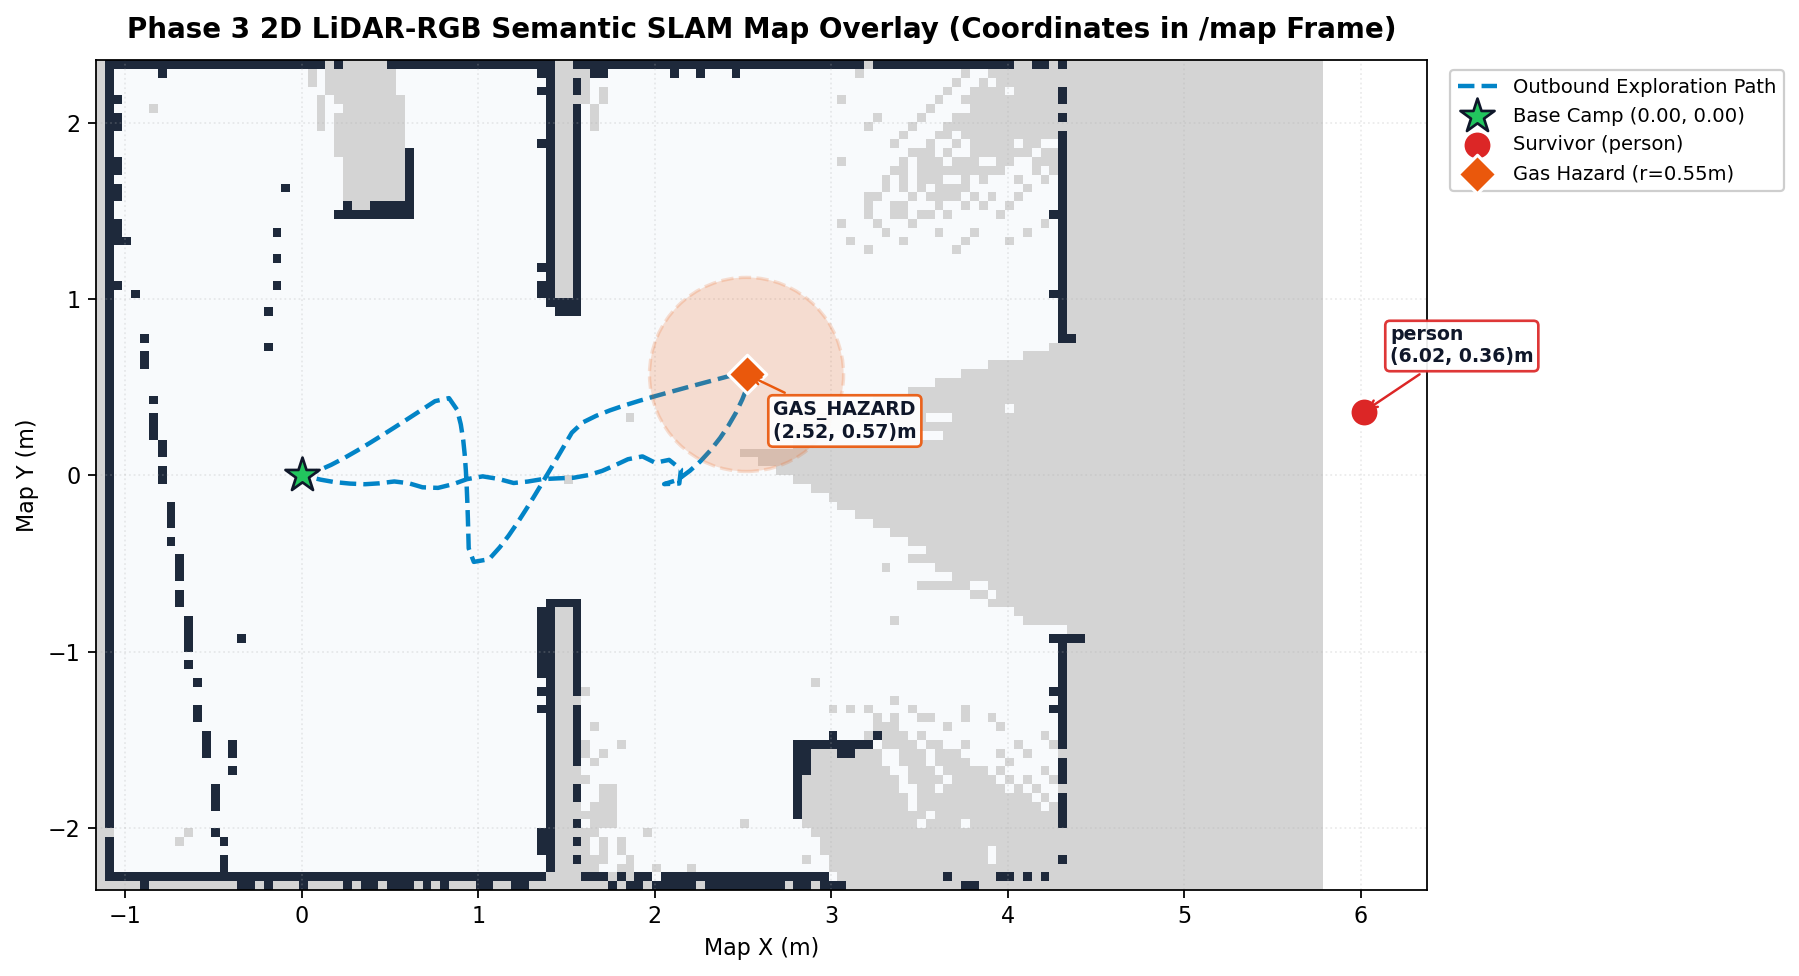
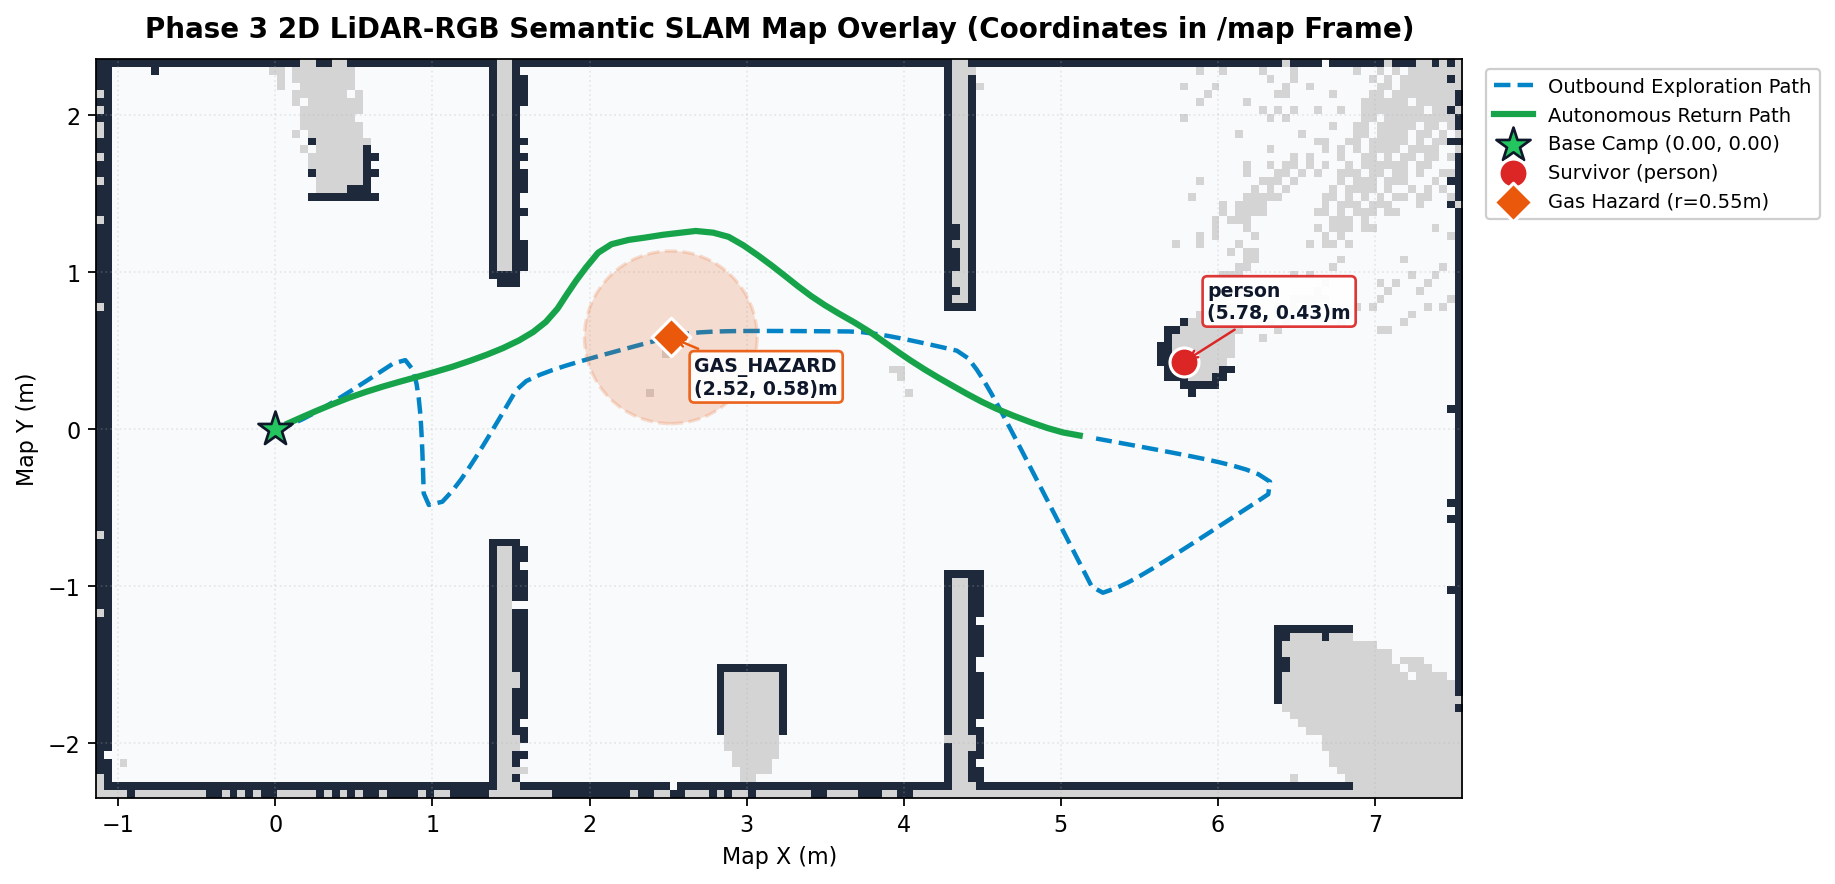
fix(e2e): prevent gas-heartbeat reset loop and re-record clean semantic SLAM E2E

diff --git a/scripts/host/run_phase3_semantic_suite.py b/scripts/host/run_phase3_semantic_suite.py
@@ -1003,7 +1003,15 @@ def _yolo_viewer_thread(node: SemanticSuiteNode, stop_ev: threading.Event, title
     cv2.destroyAllWindows()
 
 
-def _annotate_mp4_and_gif(raw_mp4: str, out_mp4: str, out_gif: Optional[str], title_text: str, fps: int = 20):
+def _annotate_mp4_and_gif(
+    raw_mp4: str,
+    out_mp4: str,
+    out_gif: Optional[str],
+    title_text: str,
+    fps: int = 20,
+    gif_fps: int = 10,
+    gif_width: int = 960,
+):
     """Re-encode raw x11grab MP4 with crisp top title banner and optional compressed GIF (<7.5MB)."""
     font_path = "/usr/share/fonts/truetype/dejavu/DejaVuSans-Bold.ttf"
     tmp_banner = out_mp4 + ".banner.png"
@@ -1034,7 +1042,7 @@ def _annotate_mp4_and_gif(raw_mp4: str, out_mp4: str, out_gif: Optional[str], ti
         subprocess.run(
             [
                 "ffmpeg", "-y", "-i", out_mp4,
-                "-vf", "fps=10,scale=960:-1:flags=lanczos,split[s0][s1];[s0]palettegen=max_colors=128[p];[s1][p]paletteuse=dither=bayer",
+                "-vf", f"fps={gif_fps},scale={gif_width}:-1:flags=lanczos,split[s0][s1];[s0]palettegen=max_colors=128[p];[s1][p]paletteuse=dither=bayer",
                 out_gif,
             ],
             check=True, stdout=subprocess.DEVNULL, stderr=subprocess.DEVNULL,
@@ -1100,13 +1108,13 @@ def run_record_e2e(args) -> int:
         procs.append(p_slam)
 
         p_ai = subprocess.Popen(
-            ["bash", "-c", env_prefix + f"ros2 run disaster_recovery host_ai_pipeline --ros-args -p yolo_model_path:={YOLO_WEIGHTS} -p image_topic:=/camera/image_raw -p use_compressed:=false -p rotation_angle:=0 -p show_window:=false -p only_person_detection:=false -p confidence_threshold:=0.30 -p person_conf_threshold:=0.35 -p whisper_device:=cpu"],
+            ["bash", "-c", env_prefix + f"ros2 run disaster_recovery host_ai_pipeline --ros-args -p enable_heartbeat:=false -p yolo_model_path:={YOLO_WEIGHTS} -p image_topic:=/camera/image_raw -p use_compressed:=false -p rotation_angle:=0 -p show_window:=false -p only_person_detection:=false -p confidence_threshold:=0.30 -p person_conf_threshold:=0.35 -p whisper_device:=cpu"],
             stdout=open("/tmp/disaster_recovery/p3_e2e_ai.log", "w"), stderr=subprocess.STDOUT, preexec_fn=os.setsid,
         )
         procs.append(p_ai)
 
         p_sem = subprocess.Popen(
-            ["bash", "-c", env_prefix + f"ros2 run disaster_recovery semantic_map_node --ros-args --params-file {sem_params} -p use_sim_time:=true -p min_hits:=2 -p min_span_sec:=0.4 -p output_dir:={e2e_bundle_dir}"],
+            ["bash", "-c", env_prefix + f"ros2 run disaster_recovery semantic_map_node --ros-args --params-file {sem_params} -p use_sim_time:=true -p gas_threshold:=0.30 -p min_hits:=2 -p min_span_sec:=0.4 -p output_dir:={e2e_bundle_dir}"],
             stdout=open("/tmp/disaster_recovery/p3_e2e_sem.log", "w"), stderr=subprocess.STDOUT, preexec_fn=os.setsid,
         )
         procs.append(p_sem)
@@ -1176,17 +1184,30 @@ def run_record_e2e(args) -> int:
 
         wps_explore = [
             (0.95, 0.55), (0.95, -0.65), (1.65, 0.45),
-            (2.75, 0.65), (3.90, 0.62), (4.65, 0.45), (5.05, 0.45),
+            (2.75, 0.65), (3.90, 0.62), (4.55, 0.45),
         ]
         # Drive outbound while triggering gas near (2.75,-0.45) and audio near (4.7, 0.3)
         gas_fired = False
         audio_fired = False
+        live_snap_ts = None
+
+        def _tick_with_snap():
+            nonlocal live_snap_ts
+            _tick_markers()
+            if (
+                live_snap_ts is None
+                and node.cur_x > 3.2
+                and any(str(x.get("class_name", "")).lower() == "person" for x in node.latest_detections)
+            ):
+                live_snap_ts = max(1.0, time.time() - t_rec_start)
+
         for wp in wps_explore:
-            seg = node.drive_to_waypoints([wp], max_sim_sec=28.0, on_step=_tick_markers)
+            seg = node.drive_to_waypoints([wp], max_sim_sec=28.0, on_step=_tick_with_snap)
             out_pts.extend(seg)
             _arrange_3pane_windows(disp, rviz_h=640)
             if (not gas_fired) and node.cur_x > 2.3:
-                node.pub_gas.publish(Float32(data=0.72))
+                # Below recovery_controller gas_threshold (0.40) so outbound exploration continues while semantic_map_node (0.30) stamps GAS_HAZARD
+                node.pub_gas.publish(Float32(data=0.35))
                 gas_fired = True
             if (not audio_fired) and node.cur_x > 4.4:
                 node.pub_audio.publish(String(data="HELP_DETECTED"))
@@ -1196,28 +1217,51 @@ def run_record_e2e(args) -> int:
         for _ in range(35):
             rclpy.spin_once(node, timeout_sec=0.05)
             node.drive(0.0, 0.08 * math.sin(0.5 * node.sim_now()))
-            _tick_markers()
+            _tick_with_snap()
             node.sim_sleep(0.10)
         node.stop()
+
+        if live_snap_ts is None:
+            live_snap_ts = max(1.0, time.time() - t_rec_start)
+        live_png = os.path.join(WS_ROOT, "docs", "images", "evidence", "phase3_semantic_slam_live.png")
 
         # Also sweep east room south corner for rich /map coverage
         seg_east = node.drive_to_waypoints([(5.3, -1.2), (6.5, -0.3), (4.9, 0.0)], max_sim_sec=35.0, on_step=_tick_markers)
         out_pts.extend(seg_east)
 
-        # Record wall-clock time right when /map + YOLO + Victim coords are visible!
-        live_snap_ts = max(1.0, time.time() - t_rec_start)
-        live_png = os.path.join(WS_ROOT, "docs", "images", "evidence", "phase3_semantic_slam_live.png")
-
-        # Save semantic map bundle & trigger return blackout briefly to show end-to-end return!
+        # Save semantic map bundle & trigger return blackout cleanly (merging sub-LiDAR low_obs into onboard cache)
         if node.cli_save_map.wait_for_service(timeout_sec=3.0):
             fut = node.cli_save_map.call_async(Trigger.Request())
             t_sv = time.time()
             while not fut.done() and time.time() - t_sv < 4.0:
                 rclpy.spin_once(node, timeout_sec=0.02)
 
+        # Stop Host semantic_map_node at blackout & ensure Ch1 low_obs + Ch2 semantic hazards remain cached onboard
+        try:
+            os.killpg(os.getpgid(p_sem.pid), signal.SIGTERM)
+        except Exception:
+            pass
+        merged_cache = [obj for obj in node.latest_cached_objects if str(obj.get("class_name", "")).upper() != "GAS_HAZARD"]
+        for i_l, (lx, ly) in enumerate(low_list, start=1):
+            merged_cache.append({
+                "marker_id": 100 + i_l, "class_id": 56, "class_name": "chair",
+                "x": float(lx), "y": float(ly), "z": 0.05, "radius": 0.24,
+                "channel": 1, "conf": 0.90, "hits": 5, "low_confidence": False,
+            })
+        merged_cache.append({
+            "marker_id": 201, "class_id": 1001, "class_name": "GAS_HAZARD",
+            "x": float(gas_xy[0]), "y": float(gas_xy[1]), "z": 0.0, "radius": 0.55,
+            "channel": 2, "conf": 0.85, "hits": 5, "low_confidence": False,
+        })
+        cache_payload = json.dumps({"frame_id": "odom", "objects": merged_cache})
+        node.pub_cached.publish(String(data=cache_payload))
+        node.sim_sleep(0.20)
+        node.pub_cached.publish(String(data=cache_payload))
+        node.sim_sleep(0.15)
+
         node.hb_enabled = False
         t_ret0 = node.sim_now()
-        while node.sim_now() - t_ret0 < 65.0:
+        while node.sim_now() - t_ret0 < 85.0:
             rclpy.spin_once(node, timeout_sec=0.02)
             if math.hypot(node.cur_x - (ret_pts[-1][0] if ret_pts else node.cur_x), node.cur_y - (ret_pts[-1][1] if ret_pts else node.cur_y)) >= 0.10 or not ret_pts:
                 ret_pts.append((node.cur_x, node.cur_y))
@@ -1252,6 +1296,7 @@ def run_record_e2e(args) -> int:
         _annotate_mp4_and_gif(
             raw_mp4, out_mp4, out_gif,
             "Phase 3 E2E: Gazebo 3D + RViz2 /map Semantic SLAM + Live YOLO26n RGB-LiDAR Fusion",
+            gif_fps=8, gif_width=840,
         )
         subprocess.run(
             ["ffmpeg", "-y", "-ss", f"{live_snap_ts:.2f}", "-i", out_mp4, "-vframes", "1", live_png],
@@ -1261,10 +1306,14 @@ def run_record_e2e(args) -> int:
             shutil.copy2(live_png, "/hdd/evidence/phase3_semantic/phase3_semantic_slam_live.png")
         print(f"[E2E DONE] mp4={out_mp4} gif={out_gif} overlay={overlay_repo}")
         stop_viewer.set()
+        if viewer_thread is not None:
+            viewer_thread.join(timeout=1.5)
         node.destroy_node()
         rclpy.shutdown()
     finally:
         stop_viewer.set()
+        if viewer_thread is not None:
+            viewer_thread.join(timeout=1.5)
         _stop_procs(procs, gz_port)
     return 0
 

diff --git a/src/disaster_recovery/disaster_recovery/recovery_controller.py b/src/disaster_recovery/disaster_recovery/recovery_controller.py
@@ -1025,9 +1025,9 @@ class RecoveryController(Node):
         self.pub_system_status.publish(status_msg)
 
         # 0. Global Link Restoration Check
-        # If heartbeat is restored and healthy (<0.5s) for > 1.2s, reset controller to NORMAL_TELEOP
+        # If heartbeat is restored and healthy (<0.5s) AND gas hazard cleared for > 1.2s, reset controller to NORMAL_TELEOP
         if self.state not in [SystemState.NORMAL_TELEOP, SystemState.INIT]:
-            if dt_heartbeat < 0.5:
+            if dt_heartbeat < 0.5 and self.current_gas_level < self.gas_threshold:
                 if not hasattr(self, '_link_restored_timer') or self._link_restored_timer is None:
                     self._link_restored_timer = now
                 elif (now - self._link_restored_timer).nanoseconds / 1e9 > 1.2:
@@ -1686,8 +1686,8 @@ class RecoveryController(Node):
 
         elif self.state == SystemState.MISSION_COMPLETE:
             self.stop_robot()
-            # If heartbeat is healthy and active, reset state back to NORMAL_TELEOP for continuous trials
-            if dt_heartbeat < 0.5:
+            # If heartbeat is healthy and active AND gas danger cleared, reset state back to NORMAL_TELEOP for continuous trials
+            if dt_heartbeat < 0.5 and self.current_gas_level < self.gas_threshold:
                 if not hasattr(self, '_complete_reset_timer'):
                     self._complete_reset_timer = now
                 elif (now - self._complete_reset_timer).nanoseconds / 1e9 > 1.5:
